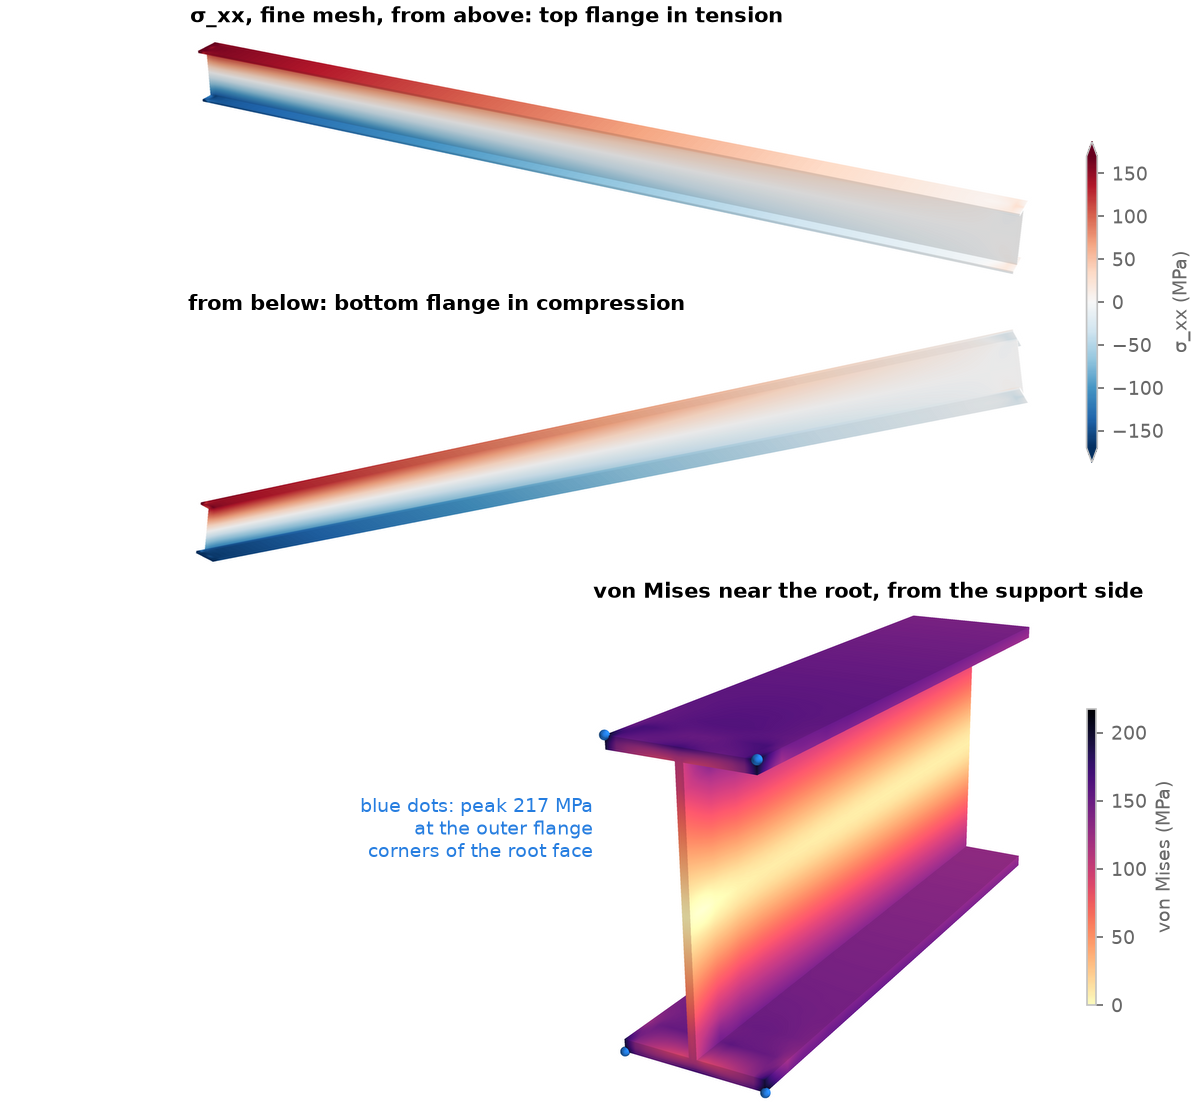
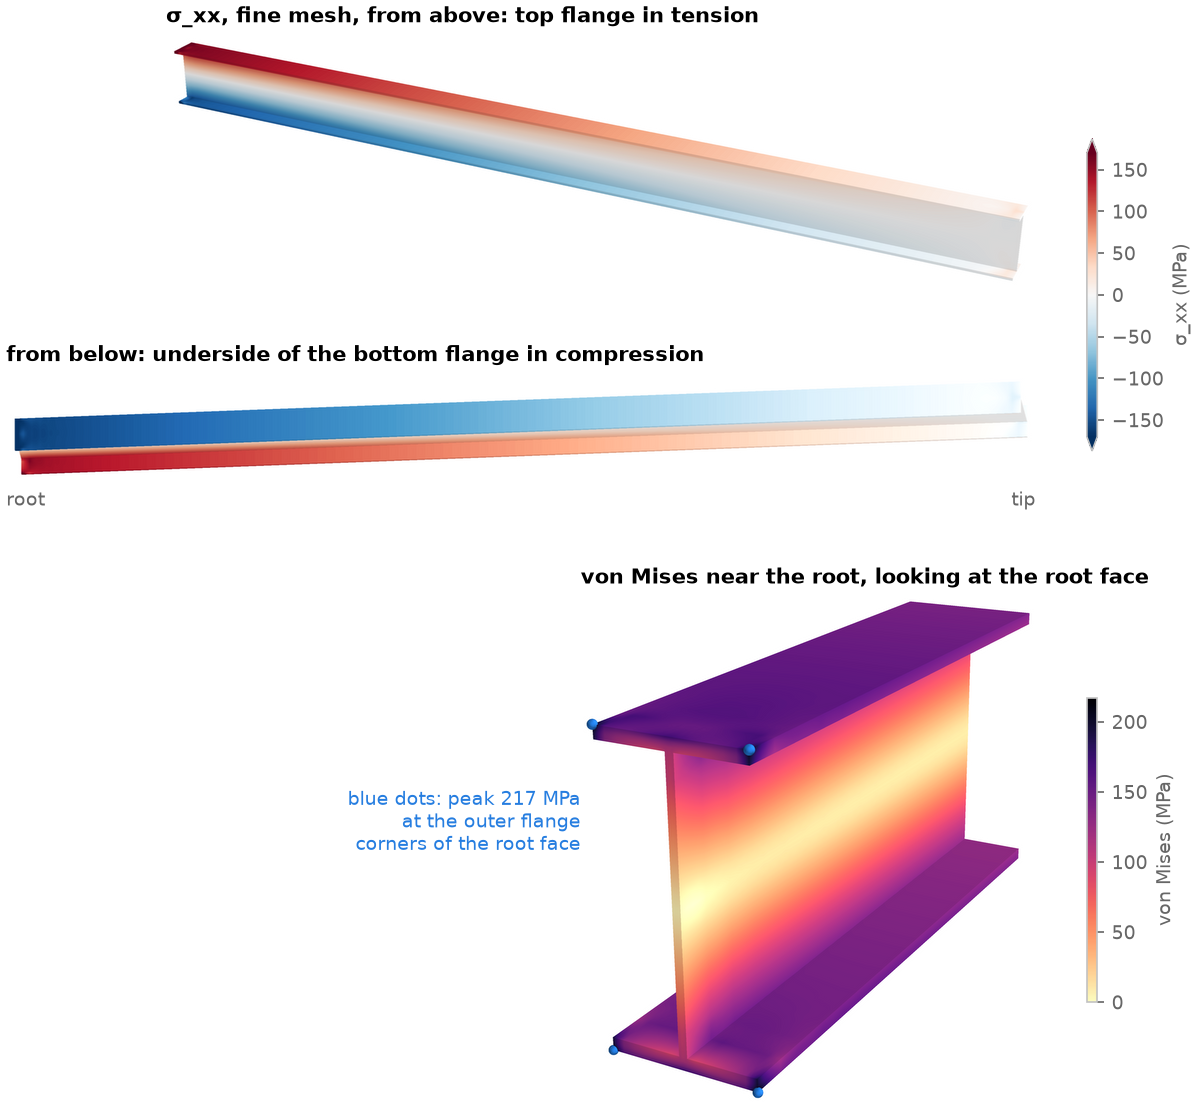
Regenerate the figures and FIGURES.md

diff --git a/benchmarks/ibeam-cantilever/FIGURES.md b/benchmarks/ibeam-cantilever/FIGURES.md
@@ -6,13 +6,13 @@ Generated by `python plots.py` from the solver output of `python benchmark.py`. 
 
 ![Figure 1: Model and boundary conditions](figures/fig1-model.png)
 
-The solid I-beam (coarse mesh), x along the beam, y up. The root face (x = 0, grey wall) is fixed in all three directions. The tip load P = 10000 N acts in −y on the reference node at the tip-face centroid, and the distributing coupling (orange) spreads it over every tip-face node without stiffening the face. The reference node is not in the `.frd`, so it is drawn at its position in the deck. The web-centreline tip node lies on the tip face at the same point, inside the reference-node marker; its deflection is compared with the reference node's. The midspan flange nodes (green, x = L/2) cover the outer surfaces of the top and bottom flanges, where the midspan stress is measured.
+The solid I-beam (coarse mesh), x along the beam, y up. The root face (x = 0, grey wall) is fixed in all three directions. The tip load P = 10000 N acts in −y on the reference node at the tip-face centroid, and the distributing coupling (orange) spreads it over every tip-face node without stiffening the face. Bottom left: the tip face seen along the beam axis. The reference node (red ring) is an extra node outside the mesh; it is not in the `.frd`, so it is drawn at its position in the deck. The web-centreline tip node (blue dot) is the mesh node at the same point, the tip-face centroid; its deflection is compared with the reference node's. Bottom right: the section at x = L/2 with the midspan flange nodes (green, 11 on each flange), which cover the outer surfaces of the top and bottom flanges, where the midspan stress is measured. They are also marked on the whole beam at the top.
 
 ## Figure 2. Mesh levels
 
 ![Figure 2: Mesh levels](figures/fig2-meshes.png)
 
-The mesh levels, labelled with the element counts through the flange thickness, along the web height and along the length (coarse 1/4/30, medium 2/8/60, fine 3/12/120). Left: the first 400 mm of the beam from the root face. Right: a close-up of the cross-section above y = 40 mm, seen along the beam axis (the section is symmetric about y = 0). The web thickness has as many elements as the flange thickness and each flange outstand twice as many. All elements are 20-node C3D20R bricks; their midside nodes are not drawn. The node counts are those in the `.frd`, without the reference node.
+The mesh levels, labelled with the element counts through the flange thickness, along the web height and along the length (coarse 1/4/30, medium 2/8/60, fine 3/12/120). Left: the first 400 mm of the beam from the root face. Middle: the whole cross-section on the root face, seen along the beam axis, with both flanges and the elements along the web height. Right: the blue box of the middle view enlarged, where the top flange meets the web, showing the elements through the flange thickness; the bottom flange is the mirror image. The web thickness has as many elements as the flange thickness and each flange outstand twice as many. All elements are 20-node C3D20R bricks; their midside nodes are not drawn. As in REPORT.md and figure 8, the node counts include the reference node.
 
 ## Figure 3. Deformed shape
 
@@ -24,7 +24,7 @@ Deformed shape of the fine mesh coloured by the vertical displacement u_y, with 
 
 ![Figure 4: σ_xx and von Mises stress](figures/fig4-stress.png)
 
-σ_xx on the fine mesh, seen from above and from below, with a diverging colour map centred on zero. The hogging moment puts the top flange in tension (red) and the bottom flange in compression (blue), largest at the root and falling linearly to zero at the tip. The colour range is ±170 MPa, just above the beam-theory root bending stress P·L·c/I = 162.5 MPa. Only nodes within 12 mm of the root face go beyond it, up to ±239 MPa. Bottom: von Mises stress in the first 400 mm, seen from the root face. The peak of 217 MPa (blue dots) is at the outer corners of the flanges on the root face, where the fixed face meets the free surfaces. That is the stress singularity of a fixed face, which grows with mesh refinement (figure 8), so the root stress is information only.
+σ_xx on the fine mesh, seen from above and from below, with a diverging colour map centred on zero. The hogging moment puts the top flange in tension (red) and the bottom flange in compression (blue), largest at the root and falling linearly to zero at the tip. The view from below looks up at the underside of the bottom flange (blue), with the root on the left; the red strip beyond it is the top flange, seen past the web. The colour range is ±170 MPa, just above the beam-theory root bending stress P·L·c/I = 162.5 MPa. Only nodes within 12 mm of the root face go beyond it, up to ±239 MPa. Bottom: von Mises stress in the first 400 mm, looking at the root face. The peak of 217 MPa (blue dots) is at the outer corners of the flanges on the root face, where the root face meets the free surfaces. That is the stress singularity of the fixed root face, which grows from the coarse to the fine mesh level (figure 8), so the root stress is information only.
 
 ## Figure 5. Deflection along the beam
 
@@ -42,10 +42,10 @@ Nodal σ_xx at midspan (x = L/2) on the mid-plane z = 0, through the web and bot
 
 ![Figure 7: σ_xx along the top flange](figures/fig7-stress-along-flange.png)
 
-Nodal σ_xx on the outer surface of the top flange (y = h/2), averaged across the flange width at each node plane, for each mesh level against the linear moment diagram σ = P·(L − x)·c/I. More than one section depth (h = 200 mm, shaded) from either end the fine level differs from beam theory by at most 0.03 MPa. The shaded St-Venant zones are where the end conditions disturb the beam-theory stress. At the root the fixed face stops the lateral (Poisson) contraction and the stress is singular where it meets the free surfaces, so the flange stress at x = 0 rises with refinement (177 → 184 → 195 MPa against P·L·c/I = 162.5 MPa) and undershoots just behind it. At the tip the distributing coupling brings the load in over the tip face, which adds a local σ_xx of up to 22 MPa where beam theory has almost none.
+Nodal σ_xx on the outer surface of the top flange (y = h/2), averaged across the flange width at each node plane, for each mesh level against the linear moment diagram σ = P·(L − x)·c/I. More than one section depth (h = 200 mm, shaded) from either end the fine level differs from beam theory by at most 0.03 MPa. The shaded St-Venant zones are where the end conditions disturb the beam-theory stress. At the root the fixed root face stops the lateral (Poisson) contraction and the stress is singular where it meets the free surfaces, so the flange stress at x = 0 rises from coarse to fine (177 → 184 → 195 MPa against P·L·c/I = 162.5 MPa) and undershoots just behind it. At the tip the distributing coupling brings the load in over the tip face, which adds a local σ_xx of up to 22 MPa where beam theory has almost none.
 
 ## Figure 8. Convergence against mesh size
 
 ![Figure 8: Convergence against mesh size](figures/fig8-convergence.png)
 
-Convergence against node count (log scale), one point per mesh level. Left: the signed errors of the three pass/fail quantities against their targets, inside the shaded ±2 % pass band. Middle: the same errors close up. Every level is within 0.043 % of its target, so the results are stable under refinement; the top- and bottom-flange stress errors are equal and their markers overlap. Right: the root peak von Mises stress grows with every refinement (170 → 192 → 217 MPa) and moves away from the beam-theory root bending stress P·L·c/I = 162.5 MPa. That is the expected stress singularity where the fixed root face meets the free surfaces, which is why the root stress is information only and does not enter the verdict.
+Convergence against node count (log scale), one point per mesh level. As in REPORT.md and figure 2, the node counts include the reference node. Left: the signed errors of the three pass/fail quantities against their targets, inside the shaded ±2 % pass band. Middle: the same errors close up. Every level is within 0.043 % of its target, so the results are stable from coarse to fine; the top- and bottom-flange stress errors are equal and their markers overlap. Right: the root peak von Mises stress grows from each mesh level to the next (170 → 192 → 217 MPa) and moves away from the beam-theory root bending stress P·L·c/I = 162.5 MPa. That is the expected stress singularity where the fixed root face meets the free surfaces, which is why the root stress is information only and does not enter the verdict.
